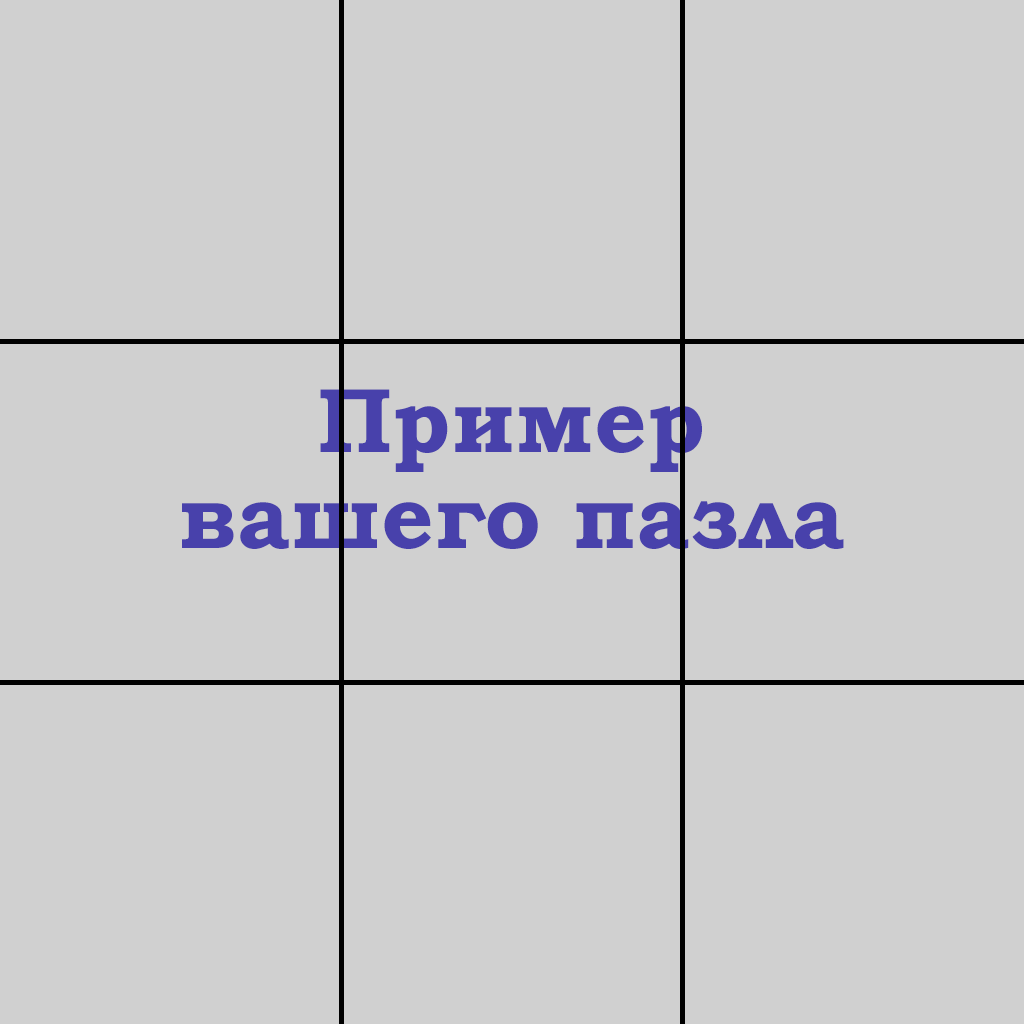
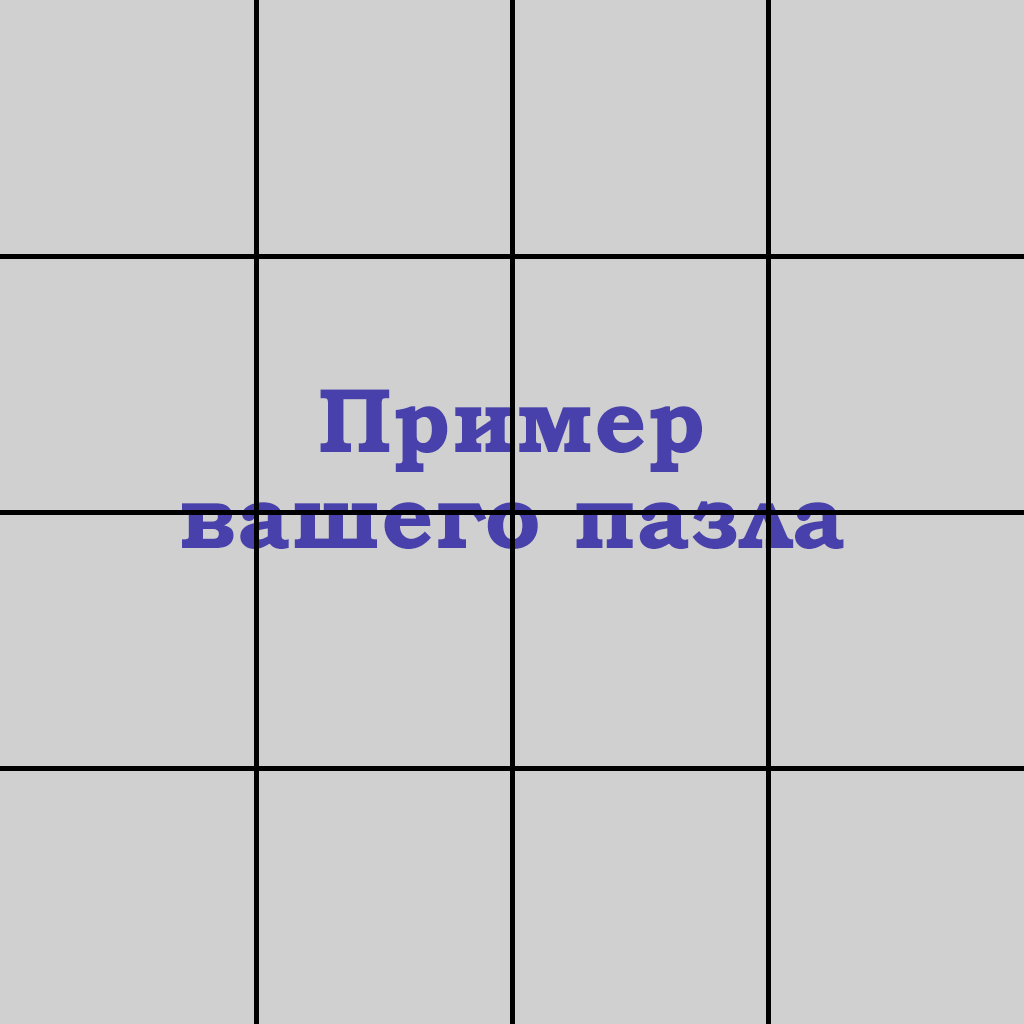
fix photo (tk.Tk --> tk.TopLevel...)

diff --git a/create_puzzle.py b/create_puzzle.py
@@ -5,7 +5,18 @@ from create_photo import create_photo
 from tkinter import messagebox
 
 import sqlite3
+"""
 
+    ЭТО ВСПОМОГАТЕЛЬНЫЙ ФАЙЛ. ОСНОВНОЙ ВСТАВЛЕН В main ПОТОМУ ЧТО ГРЕБАНЫЙ СБОРЩИК МУСОРА УБИВАЕТ КАРТИНКУ
+
+
+    !!!!!!!!!!!!!!!!!!!!!!!!!!!!!!!!!!!!!!!!!!!!!!!!!!!!!!!!!!!!!!!!!!!!!!!!!!!!!!!!!!!!!!!!!!!!!!!!!!!!!!
+
+
+
+
+
+"""
 
 def get_wood_types():
     data = []
@@ -87,7 +98,7 @@ def create_puzzle():
         tk.messagebox.showinfo("Успех", "Пазл успешно сохранен в базу данных!")
 
     # Создаем главное окно
-    window = tk.Tk()
+    window = tk.Toplevel()
     window.title("Создать новый пазл")
     window.geometry('800x600')
     window.resizable(False, False)
@@ -152,4 +163,4 @@ def create_puzzle():
     window.mainloop()
 
 
-create_puzzle()
+# create_puzzle()

diff --git a/create_plate.py b/create_plate.py
@@ -103,7 +103,7 @@ def create_button(canvas, text, radius, command=None):
 
 # Функция для окна создания листа
 def create_plate():
-    window = tk.Tk()
+    window = tk.Toplevel()
     window.title("Puzzler - создать лист фанеры")
     window.geometry('350x420')
     window.minsize(350, 420)

diff --git a/plate_list.py b/plate_list.py
@@ -16,7 +16,7 @@ def get_plane_list():
 
 
 def plate_list():
-    window = tk.Tk()
+    window = tk.Toplevel()
     window.title("Puzzler - список листов фанер")
     window.geometry('250x420')
     window.minsize(350, 420)
@@ -70,4 +70,4 @@ def plate_list():
     window.mainloop()
 
 
-plate_list()
+# plate_list()

diff --git a/create_photo.py b/create_photo.py
@@ -22,4 +22,4 @@ def create_photo(image_path, divisions, output_path):
     img.save(output_path)
 
 
-create_photo("asset/template.png", 4, "output.png")
+# create_photo("asset/template.png", 4, "output.png")
